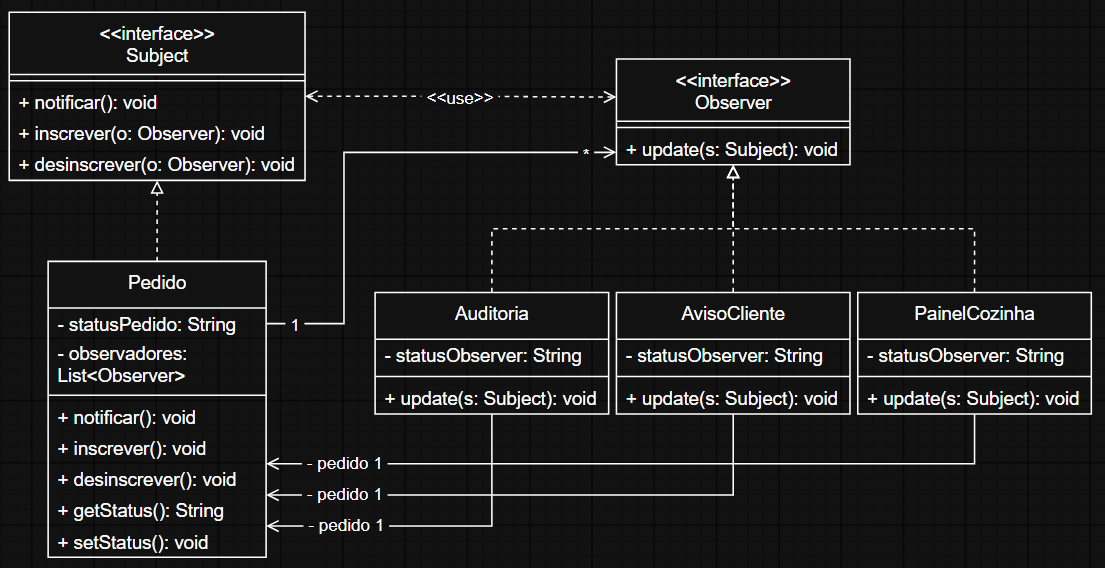
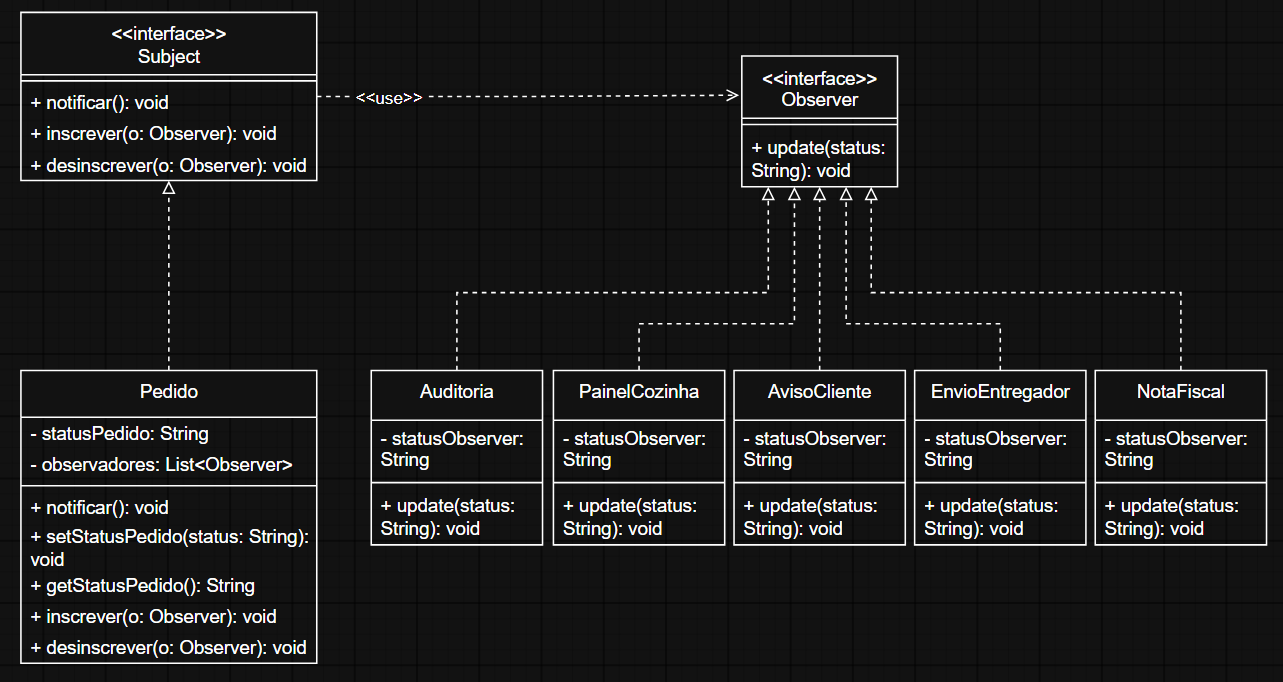
feat: observer finished

diff --git a/src/pedido/observer/Pedido.java b/src/pedido/observer/Pedido.java
@@ -7,22 +7,23 @@ public class Pedido implements Subject{
     private String statusPedido;
     private List<Observer> observadores = new ArrayList<>();
 
-    public void setStatusPedido(String status){ this.statusPedido = status; }
+    public void setStatusPedido(String status){
+        this.statusPedido = status;
+        this.notificar();
+    }
     public String getStatusPedido(){ return this.statusPedido; }
 
     public void notificar(){
         for(Observer o : observadores){
-            o.update();
+            o.update(this.getStatusPedido());
         }
     }
 
     public void inscrever(Observer o){
         observadores.add(o);
-        // System.out.println("Observer '" + o + "' inscreveu-se em Pedido!");
     }
 
     public void desinscrever(Observer o){
         observadores.remove(o);
-        // System.out.println("Observer '" + o + "' desinscreveu-se de Pedido!");
     }
 }

diff --git a/src/pedido/observer/Main.java b/src/pedido/observer/Main.java
@@ -1,0 +1,25 @@
+package pedido.observer;
+
+public class Main {
+    public static void main(String[] args){
+        Pedido p = new Pedido();
+
+        Auditoria auditoria = new Auditoria();
+        AvisoCliente avisoCliente = new AvisoCliente();
+        PainelCozinha painelCozinha = new PainelCozinha();
+        EnvioEntregador envioEntregador = new EnvioEntregador();
+        NotaFiscal notaFiscal = new NotaFiscal();
+
+        p.inscrever(auditoria);
+        p.inscrever(avisoCliente);
+        p.inscrever(painelCozinha);
+        p.inscrever(envioEntregador);
+        p.inscrever(notaFiscal);
+
+        System.out.println("Preparando o pedido!");
+        p.setStatusPedido("Preparando");
+
+        System.out.println("\nO pedido ficou pronto!");
+        p.setStatusPedido("Pedido pronto");
+    }
+}

diff --git a/src/pedido/observer/EnvioEntregador.java b/src/pedido/observer/EnvioEntregador.java
@@ -1,0 +1,15 @@
+package pedido.observer;
+
+public class EnvioEntregador implements Observer{
+    private String statusObserver;
+
+    // caso tenha mais de um Subject, é a interface quem vai diferenciá-los
+    public void update(String status){
+        this.statusObserver = status;
+        if(this.statusObserver.equals("Preparando")){
+            System.out.println("ENVIOENTREGADOR: O pedido está sendo preparado!");
+        }else if(this.statusObserver.equals("Pedido pronto")){
+            System.out.println("ENVIOENTREGADOR: O pedido está pronto para retirada!");
+        }
+    }
+}

diff --git a/src/pedido/observer/AvisoCliente.java b/src/pedido/observer/AvisoCliente.java
@@ -1,5 +1,13 @@
 package pedido.observer;
 
-public class AvisoCliente {
+public class AvisoCliente implements Observer{
+    private String statusObserver;
     
+    // caso tenha mais de um Subject, é a interface quem vai diferenciá-los
+    public void update(String status){
+        this.statusObserver = status;
+        if(this.statusObserver.equals("Pedido pronto")){
+            System.out.println("AVISOCLIENTE: Pedido n° X está pronto!");
+        }
+    }
 }

diff --git a/src/pedido/observer/Auditoria.java b/src/pedido/observer/Auditoria.java
@@ -2,10 +2,10 @@ package pedido.observer;
 
 public class Auditoria implements Observer{
     private String statusObserver;
-    private Pedido p;
 
     // caso tenha mais de um Subject, é a interface quem vai diferenciá-los
-    public void update(Subject s){
-        
+    public void update(String status){
+        this.statusObserver = status;
+        System.out.println("AUDITORIA: [LOG] - status alterado para '" + this.statusObserver + "'.");
     }
 }

diff --git a/src/pedido/observer/NotaFiscal.java b/src/pedido/observer/NotaFiscal.java
@@ -1,0 +1,13 @@
+package pedido.observer;
+
+public class NotaFiscal implements Observer{
+    private String statusObserver;
+    
+    // caso tenha mais de um Subject, é a interface quem vai diferenciá-los
+    public void update(String status){
+        this.statusObserver = status;
+        if(this.statusObserver.equals("Pedido pronto")){
+            System.out.println("NOTAFISCAL: Pedido n° X ---- R$ 35,00");
+        }
+    }
+}

diff --git a/src/pedido/observer/PainelCozinha.java b/src/pedido/observer/PainelCozinha.java
@@ -1,5 +1,12 @@
 package pedido.observer;
 
-public class PainelCozinha {
-    
+public class PainelCozinha implements Observer{
+    private String statusObserver;
+
+    public void update(String status){
+        this.statusObserver = status;
+        if(this.statusObserver.equals("Preparando")){
+            System.out.println("PAINELCOZINHA: Preparando pedido n° X.");
+        }
+    }
 }

diff --git a/src/notification/livre/EmailSender.java b/src/notification/livre/EmailSender.java
@@ -1,4 +1,4 @@
-package notification.normal;
+package notification.livre;
 
 public class EmailSender implements Sender{
     public void send(String msg){

diff --git a/src/notification/livre/PushSender.java b/src/notification/livre/PushSender.java
@@ -1,4 +1,4 @@
-package notification.normal;
+package notification.livre;
 
 public class PushSender implements Sender{
     public void send(String msg){

diff --git a/src/notification/livre/SmsSender.java b/src/notification/livre/SmsSender.java
@@ -1,4 +1,4 @@
-package notification.normal;
+package notification.livre;
 
 public class SmsSender implements Sender{
     public void send(String msg){

diff --git a/src/notification/livre/Notifier.java b/src/notification/livre/Notifier.java
@@ -1,4 +1,4 @@
-package notification.normal;
+package notification.livre;
 
 public class Notifier{
     public void alert(String channel, String msg){

diff --git a/src/pedido/observer/Observer.java b/src/pedido/observer/Observer.java
@@ -1,5 +1,5 @@
 package pedido.observer;
 
 public interface Observer {
-    public void update(Subject s);
+    public void update(String status);
 }
